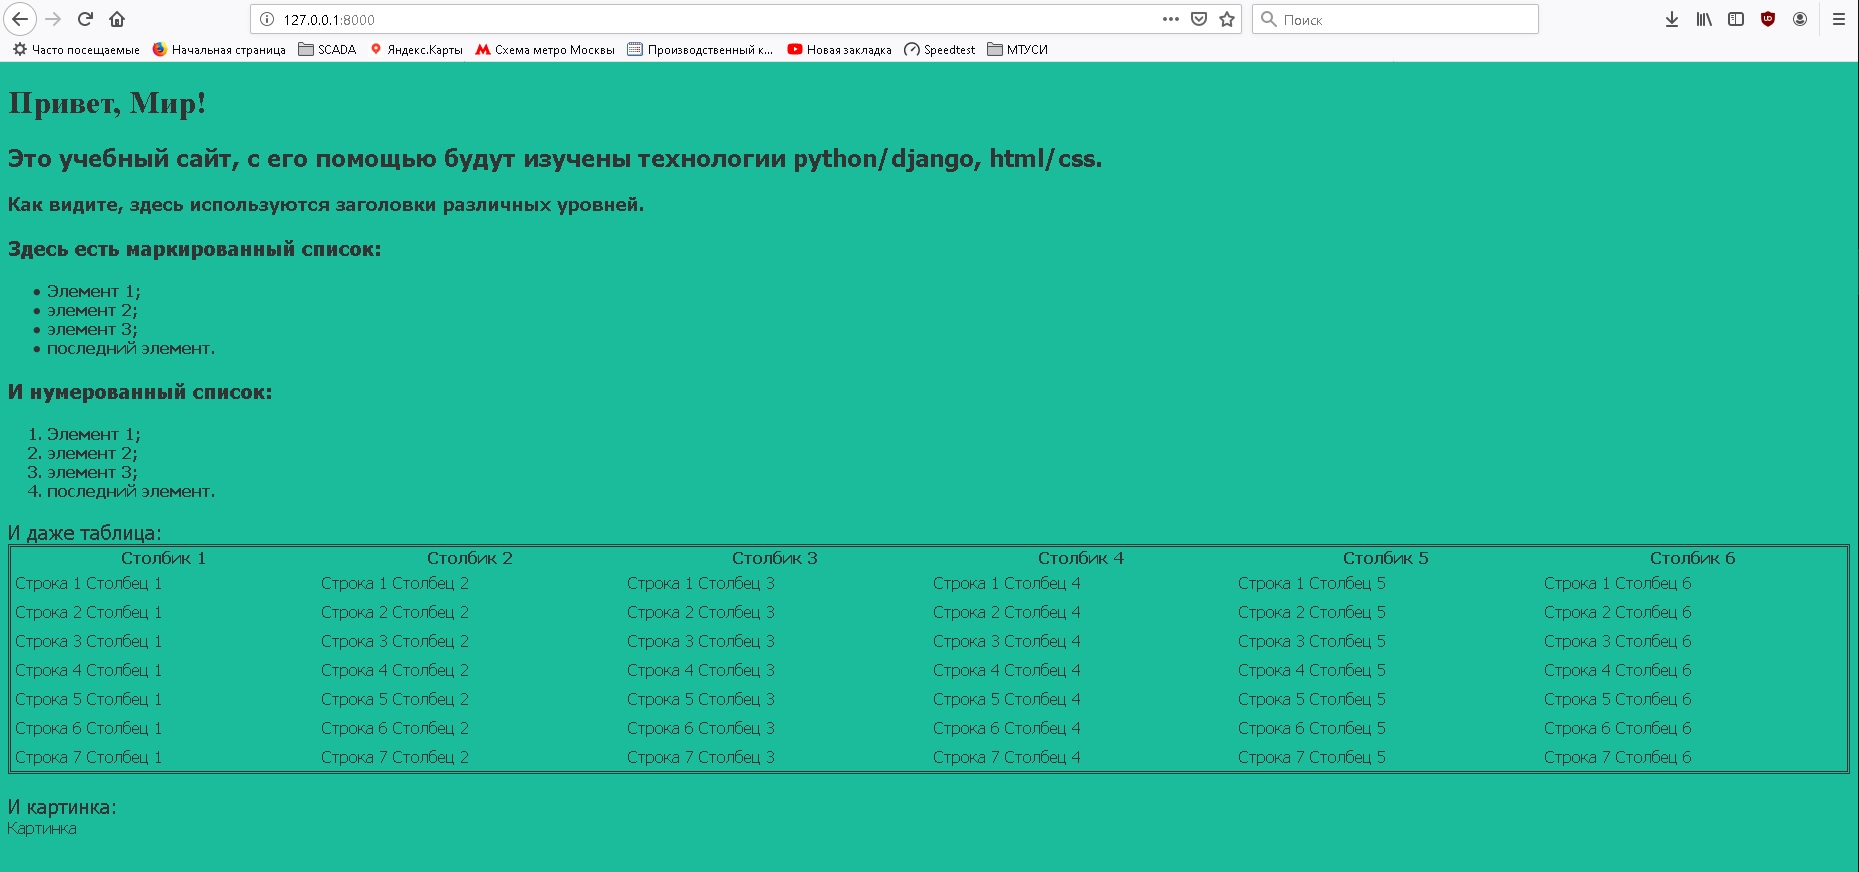
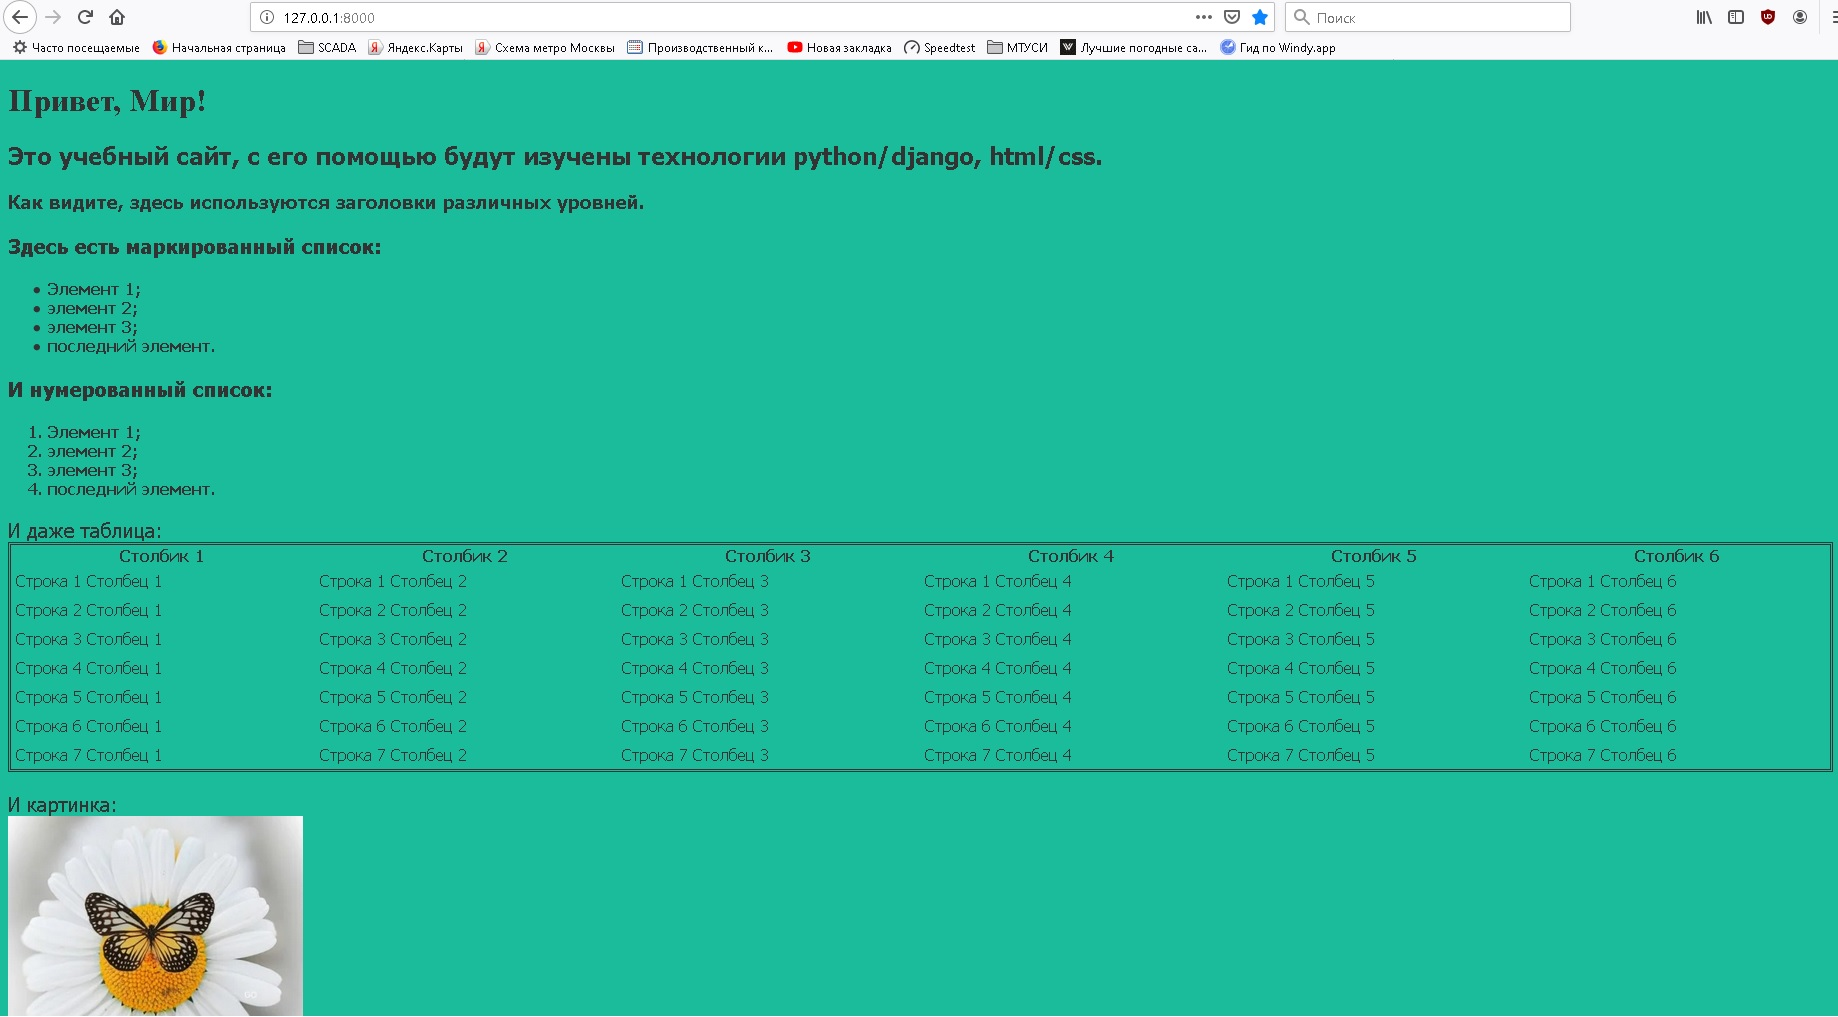
1

Changed region(s): [[0.0, 0.0, 1.0, 1.0]]

diff --git a/firstwebpage/flatpages/templates/static_handler.html b/firstwebpage/flatpages/templates/static_handler.html
@@ -5,6 +5,7 @@
 		<link rel="stylesheet" href="{{ STATIC_URL }}/static/index.css">
 	</head>
 	<body>
+		{% load static %}
 		<h1>Привет, Мир!</h1>
 		<h2>Это учебный сайт, с его помощью будут изучены технологии python/django, html/css.</h2>
 		<h3>Как видите, здесь используются заголовки различных уровней.</h3>
@@ -96,6 +97,6 @@
 			</tr>
 		</table>
 		<p>И картинка:</p>
-		<img src="C:\D\personal\MTUCI\Sem2\WEB\Lab2\images\img1.jpg" alt="Картинка">
+		<img src="{% static 'img/s1200.jpg' %}" alt="Картинка">
 	</body>
 </html>
